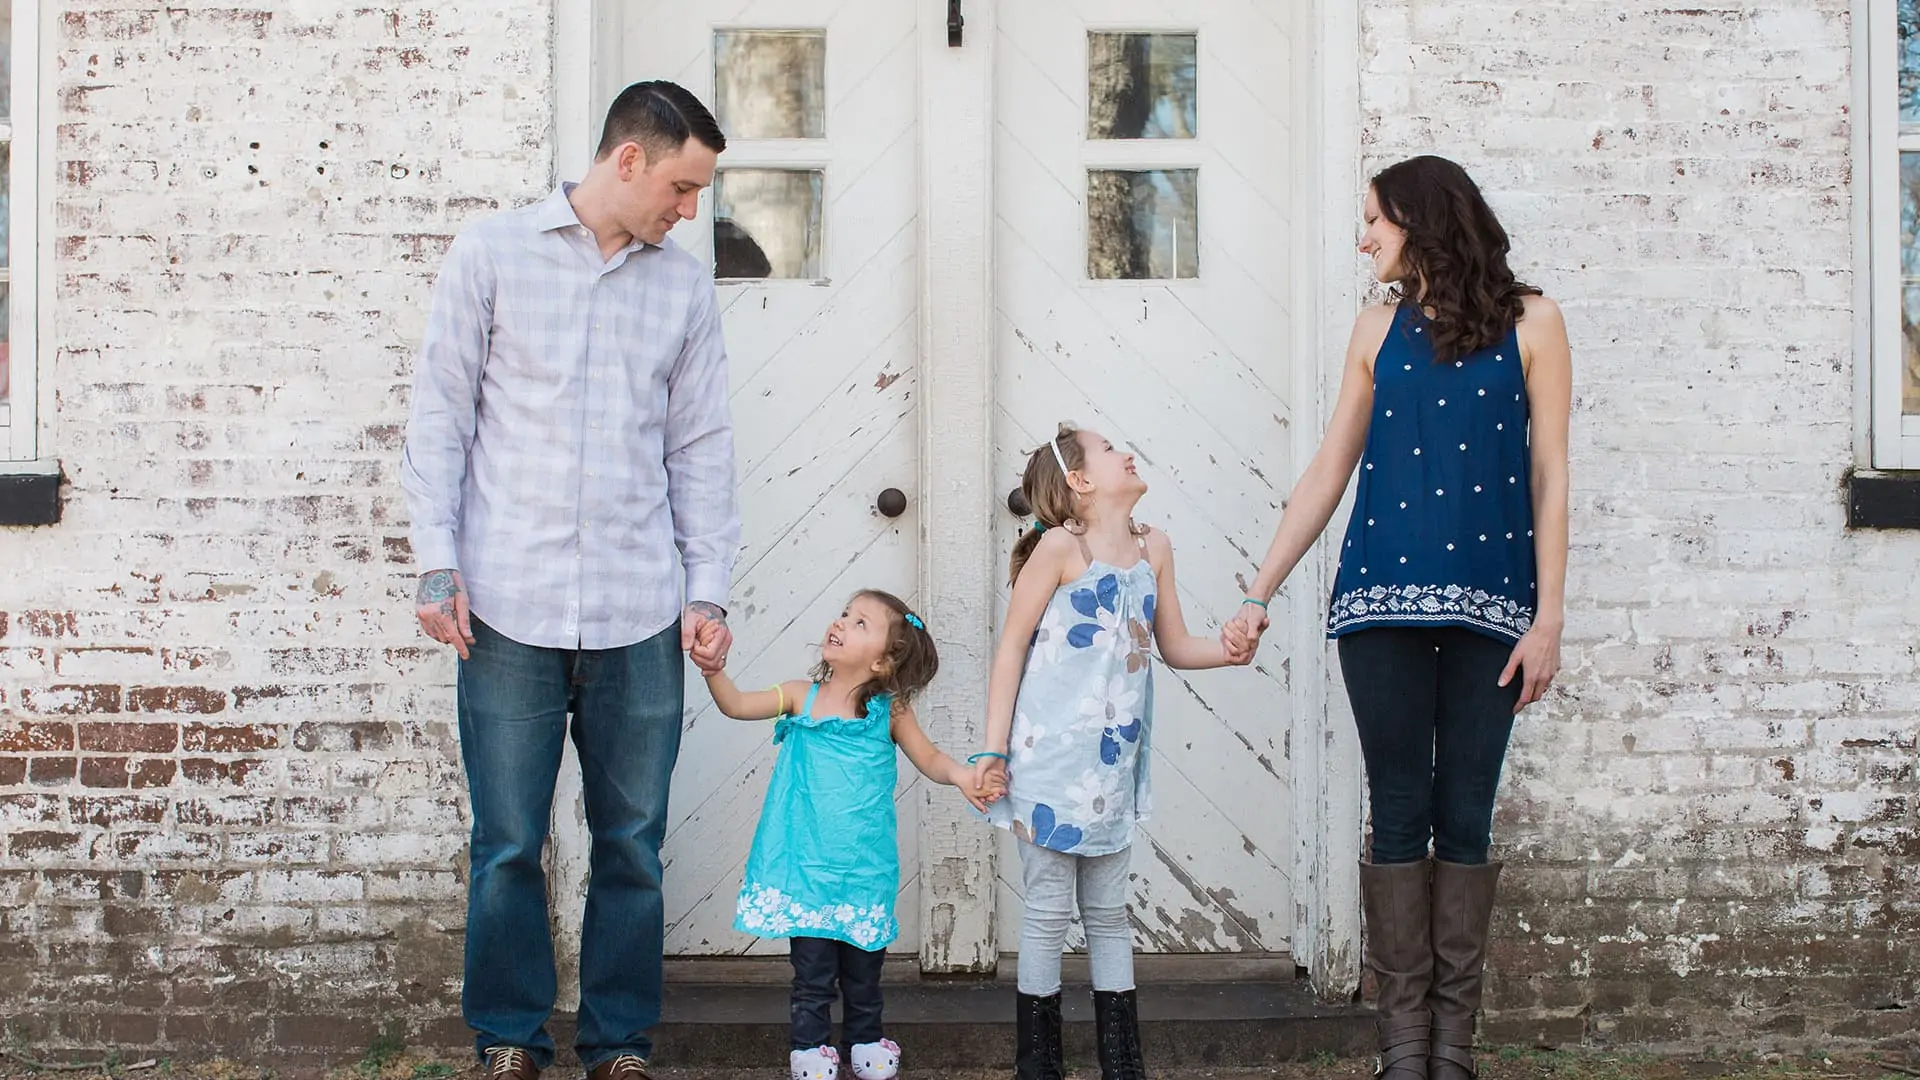
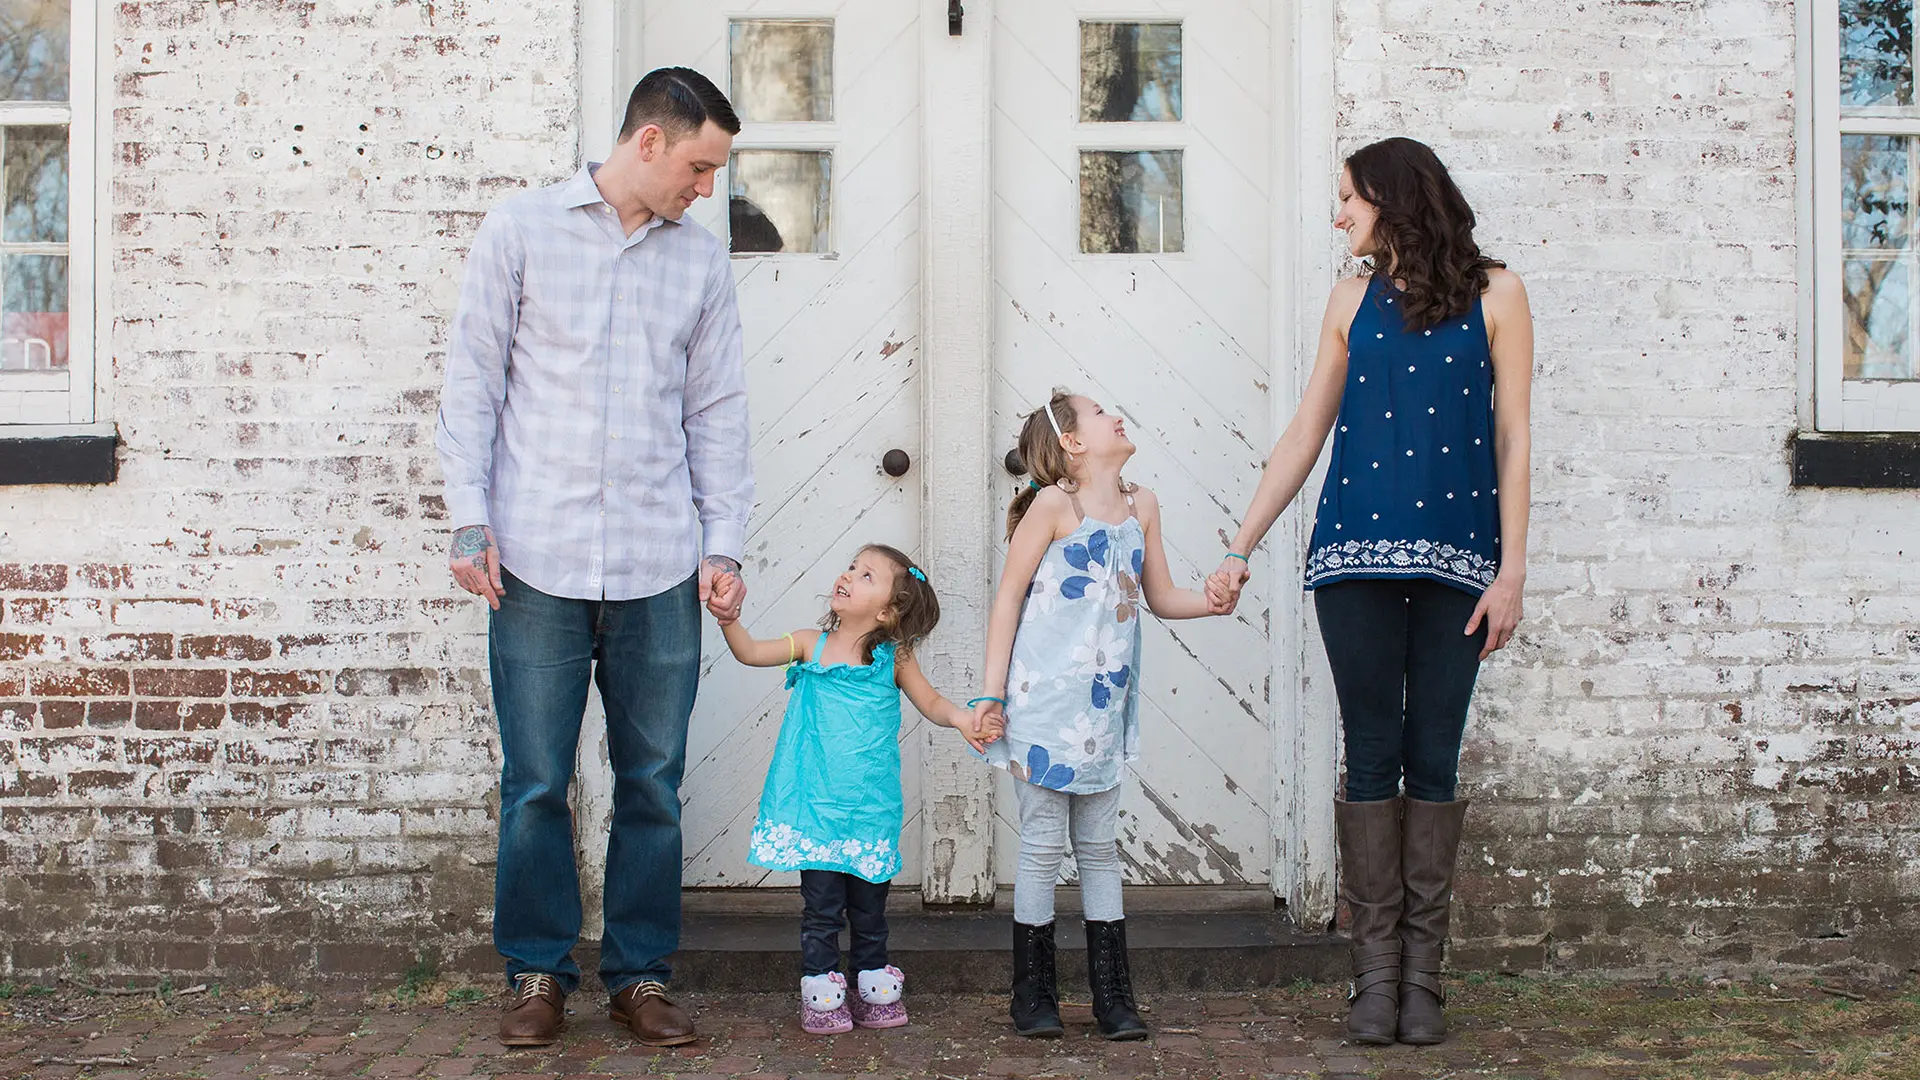
Adding final /About photos and fixing the mobile photos on /Weddings

diff --git a/pages/about.vue b/pages/about.vue
@@ -91,15 +91,25 @@
 <style lang="scss" scoped>
 
     /* Modern Browsers: */
-    .about-hero-webp {
+    .about-hero-webp { // 480p default
         background-image:   linear-gradient(rgba(255, 255, 255, 0.3), rgba(255, 255, 255, 0.3)),
-                            url(/images/heros/about/720p.webp);
+                            url(/images/heros/about/480p.webp);
         background-repeat: no-repeat;
         background-position: center center;
         background-size: cover;
     }
 
-    @media only screen and (min-width: 1280px) {
+    @media only screen and (min-width: 960px) { // Halfway between 480p and 720p
+        .about-hero-webp {
+            background-image:   linear-gradient(rgba(255, 255, 255, 0.3), rgba(255, 255, 255, 0.3)),
+                                url(/images/heros/about/720p.webp);
+            background-repeat: no-repeat;
+            background-position: center center;
+            background-size: cover;
+        }
+    }
+
+    @media only screen and (min-width: 1600px) { // Halfway between 720p and 1080p
         .about-hero-webp {
             background-image:   linear-gradient(rgba(255, 255, 255, 0.3), rgba(255, 255, 255, 0.3)),
                                 url(/images/heros/about/1080p.webp);
@@ -109,10 +119,10 @@
         }
     }
 
-    @media only screen and (min-width: 1920px) {
+    @media only screen and (min-width: 2240px) { // Halfway between 1080p and 1440p
         .about-hero-webp {
             background-image:   linear-gradient(rgba(255, 255, 255, 0.3), rgba(255, 255, 255, 0.3)),
-                                url(/images/heros/about/2k.webp);
+                                url(/images/heros/about/1440p.webp);
             background-repeat: no-repeat;
             background-position: center center;
             background-size: cover;
@@ -120,15 +130,25 @@
     }
 
     /* Legacy Browsers: */
-    .about-hero {
+    .about-hero { // 480p default
         background-image:   linear-gradient(rgba(255, 255, 255, 0.3), rgba(255, 255, 255, 0.3)),
-                            url(/images/heros/about/720p.jpg);
+                            url(/images/heros/about/480p.jpg);
         background-repeat: no-repeat;
         background-position: center center;
         background-size: cover;
     }
 
-    @media only screen and (min-width: 1280px) {
+    @media only screen and (min-width: 960px) { // Halfway between 480p and 720p
+        .about-hero {
+            background-image:   linear-gradient(rgba(255, 255, 255, 0.3), rgba(255, 255, 255, 0.3)),
+                                url(/images/heros/about/720p.jpg);
+            background-repeat: no-repeat;
+            background-position: center center;
+            background-size: cover;
+        }
+    }
+
+    @media only screen and (min-width: 1600px) { // Halfway between 720p and 1080p
         .about-hero {
             background-image:   linear-gradient(rgba(255, 255, 255, 0.3), rgba(255, 255, 255, 0.3)),
                                 url(/images/heros/about/1080p.jpg);
@@ -138,10 +158,10 @@
         }
     }
 
-    @media only screen and (min-width: 1920px) {
+    @media only screen and (min-width: 2240px) { // Halfway between 1080p and 1440p
         .about-hero {
             background-image:   linear-gradient(rgba(255, 255, 255, 0.3), rgba(255, 255, 255, 0.3)),
-                                url(/images/heros/about/2k.jpg);
+                                url(/images/heros/about/1440p.jpg);
             background-repeat: no-repeat;
             background-position: center center;
             background-size: cover;
